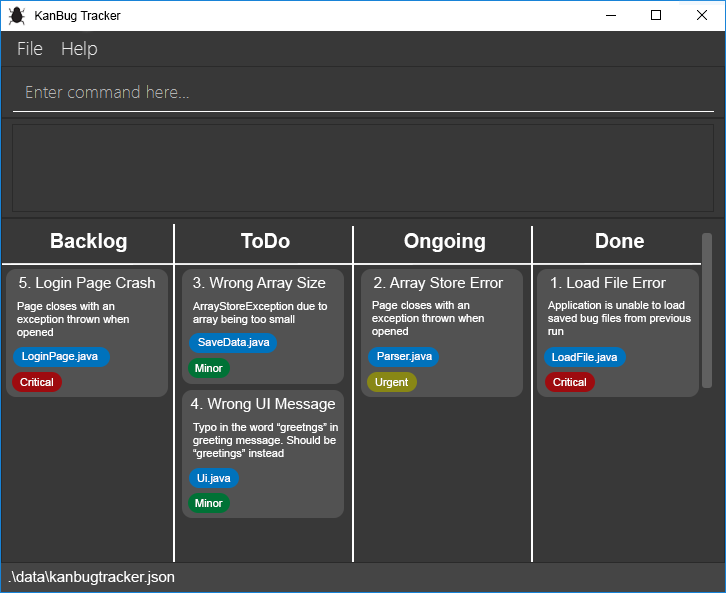
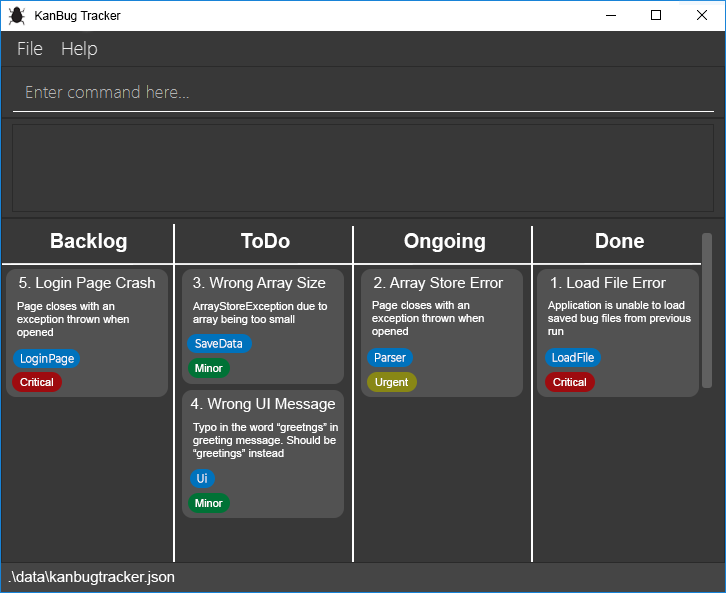
Fix UG mock-up images Correct UG tag example command Correct UG command list

diff --git a/docs/UserGuide.md b/docs/UserGuide.md
@@ -55,7 +55,7 @@ Format: `add n/NAME d/DESCRIPTION [s/STATE] [t/TAG]`
 * If state is not specified, a default state of backlog will be assigned.
 
 Examples:
-* `add n/Print bug d/prints the wrong message s/todo t/Ui.java`, adds a bug with name *Print Bug*, Description of *prints the wrong message*, state of *To do* and a tag of *Ui.java*.
+* `add n/Print bug d/prints the wrong message s/todo t/Ui`, adds a bug with name *Print Bug*, Description of *prints the wrong message*, state of *To do* and a tag of *Ui.java*.
 * `add n/Move bug d/moves bug to wrong column s/backlog`, adds a bug with name *Move bug*, Description of *moves bug to wrong column* and state of *Backlog*.
 * `add n/Move bug d/UI`, adds a bug with name *move bug*, Description of *UI* and state of *Backlog*.
 
@@ -119,7 +119,7 @@ Data is saved into the hard disk everytime a change is made.
 |:--------:|:--------:|
 |  **help**  |  `help`  |
 |  **list**  |  `list`  |
-|  **add**  |  `add n/NAME d/DESCRIPTION s/STATE`  |
+|  **add**  |  `add n/NAME d/DESCRIPTION [s/STATE] [t/TAG]`  |
 |  **delete**  |  `delete INDEX`  |
 |  **edit**  |  `edit INDEX [n/NEW_NAME] [d/NEW_DESCRIPTION] [t/NEW_TAG]`  |
 |  **move**  |  `move INDEX s/STATE`  |
